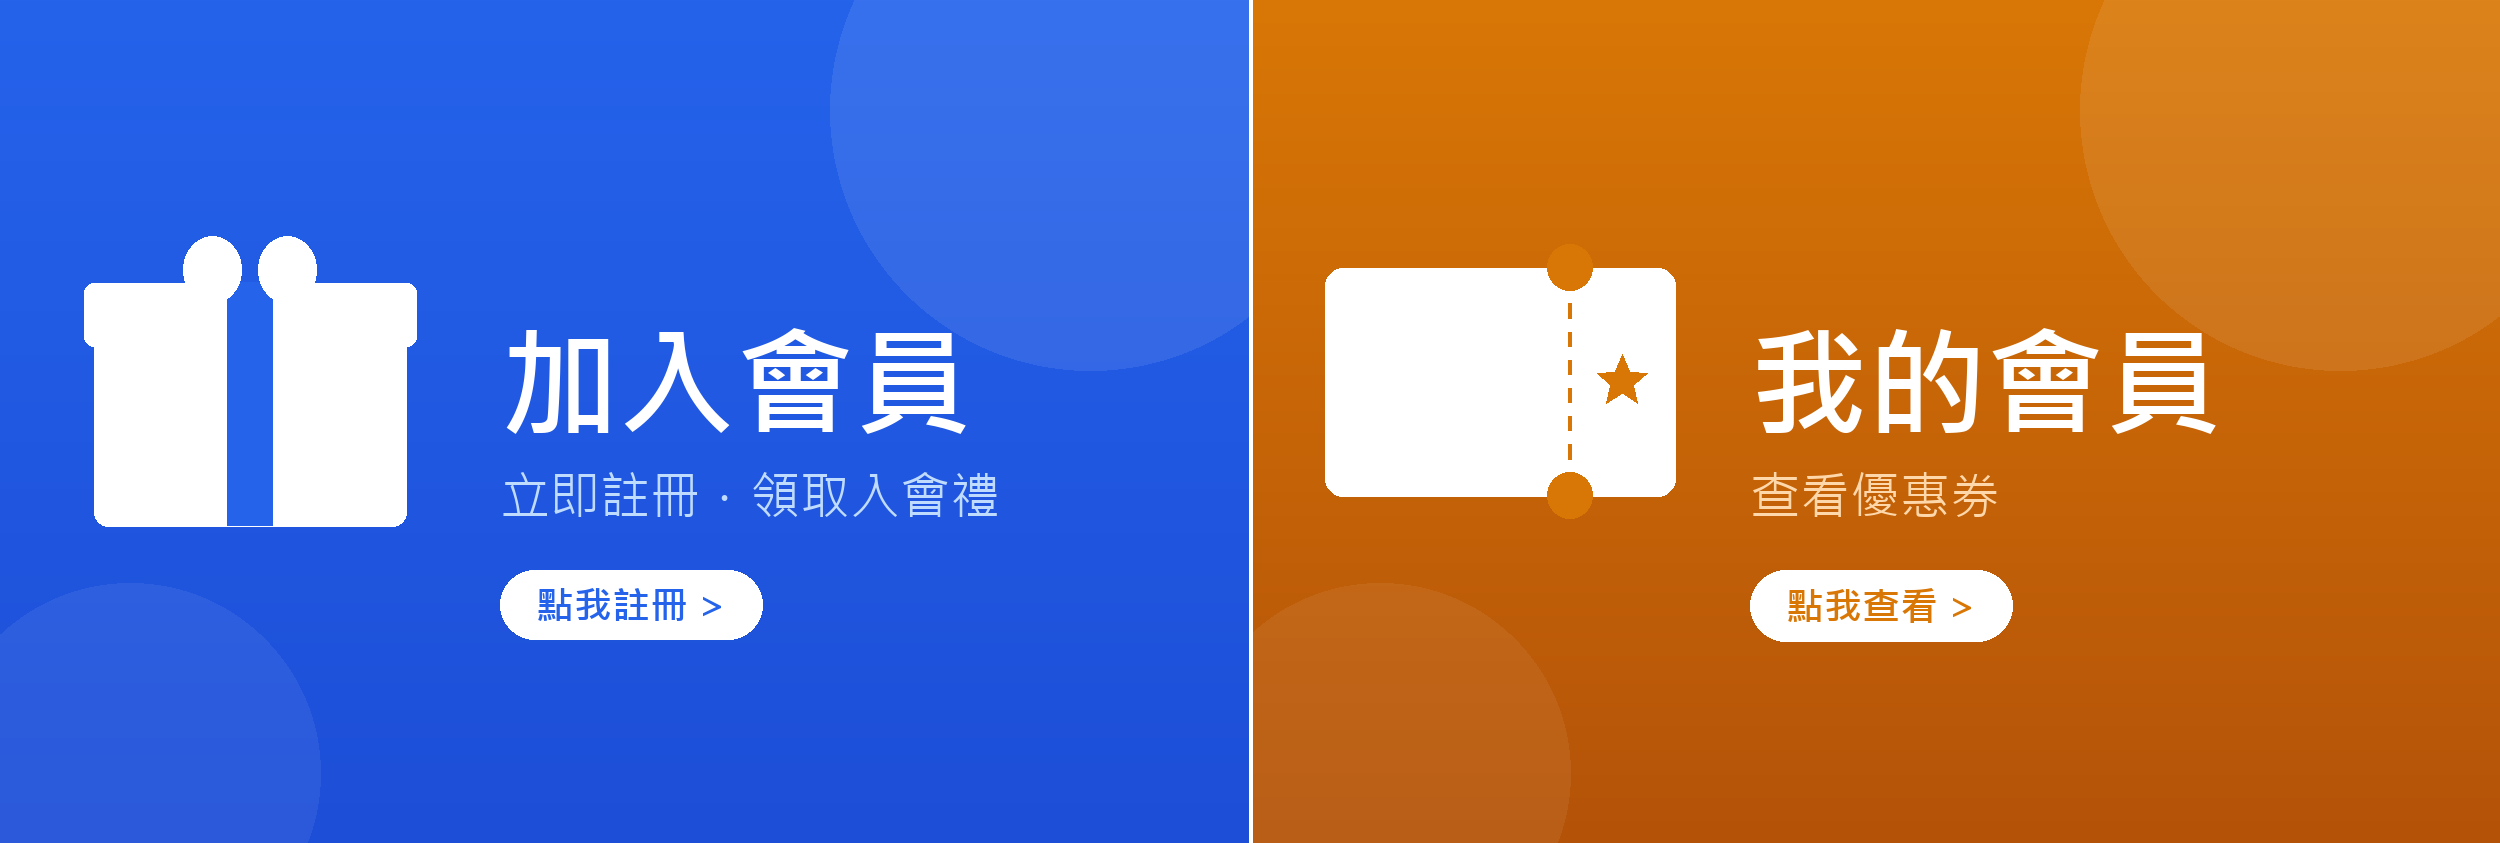
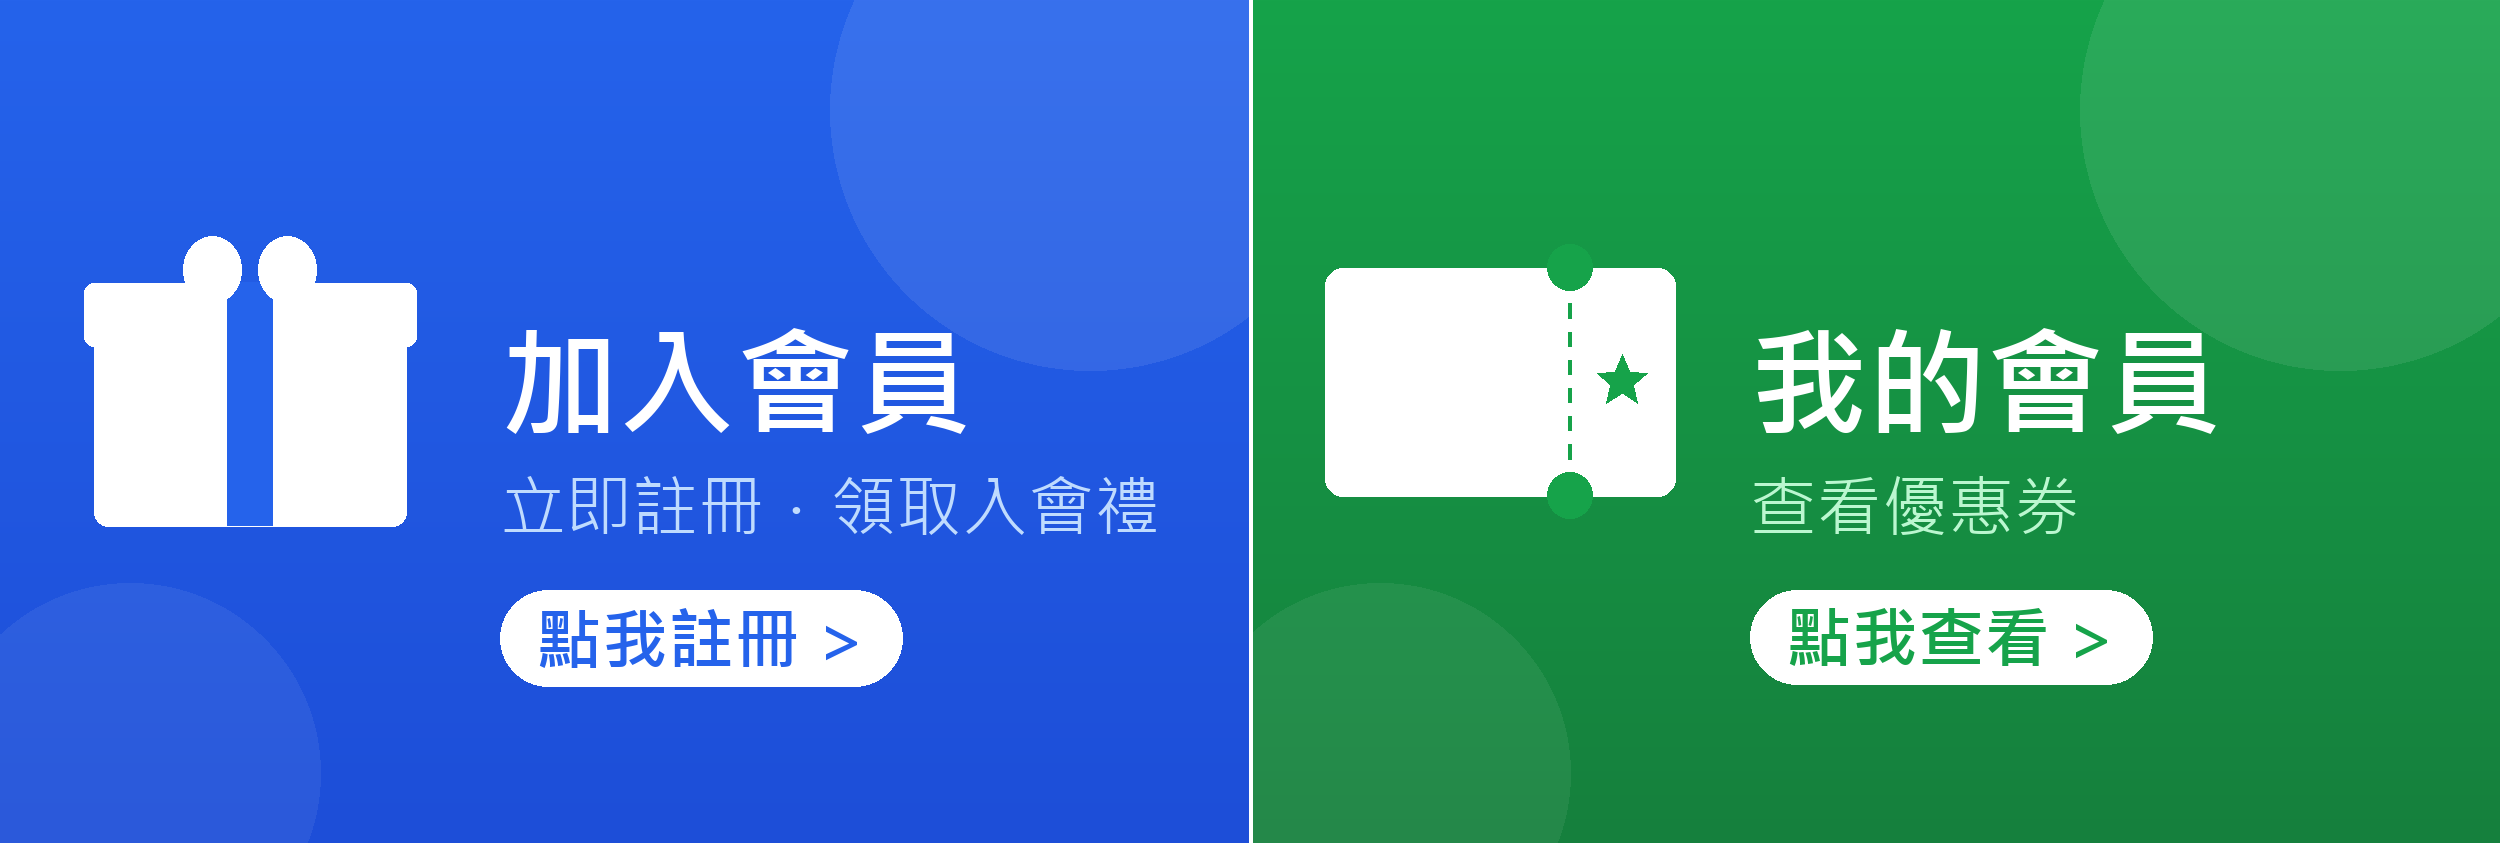
Line: 美化圖文選單樣式、VIP升級通知文案、註冊喜好選項修正成符合IKEA

diff --git a/templates/register.html b/templates/register.html
@@ -71,10 +71,10 @@
                     <div class="form-group">
                         <label>喜好項目 <span class="optional-text">可選填</span></label>
                         <div class="pref-options">
-                            <label class="pref-option"><input type="checkbox" name="preference" value="咖啡"> 咖啡</label>
-                            <label class="pref-option"><input type="checkbox" name="preference" value="甜點"> 甜點</label>
-                            <label class="pref-option"><input type="checkbox" name="preference" value="茶飲"> 茶飲</label>
-                            <label class="pref-option"><input type="checkbox" name="preference" value="輕食"> 輕食</label>
+                            <label class="pref-option"><input type="checkbox" name="preference" value="家具"> 家具</label>
+                            <label class="pref-option"><input type="checkbox" name="preference" value="收納"> 收納</label>
+                            <label class="pref-option"><input type="checkbox" name="preference" value="燈飾"> 燈飾</label>
+                            <label class="pref-option"><input type="checkbox" name="preference" value="餐廳"> 餐廳</label>
                         </div>
                     </div>
 

diff --git a/linebot_service/richmenu/generate_menu_image_two_entry.py b/linebot_service/richmenu/generate_menu_image_two_entry.py
@@ -22,9 +22,9 @@ LEFT_TOP_COLOR = (37, 99, 235)      # #2563eb
 LEFT_BOTTOM_COLOR = (29, 78, 216)   # #1d4ed8
 LEFT_LIGHT = (191, 219, 254)        # #bfdbfe
 
-RIGHT_TOP_COLOR = (217, 119, 6)     # #d97706
-RIGHT_BOTTOM_COLOR = (180, 83, 9)   # #b45309
-RIGHT_LIGHT = (254, 215, 170)       # #fed7aa
+RIGHT_TOP_COLOR = (22, 163, 74)      # #16a34a
+RIGHT_BOTTOM_COLOR = (21, 128, 61)   # #15803d
+RIGHT_LIGHT = (187, 247, 208)        # #bbf7d0
 
 FONT_BOLD = "C:/Windows/Fonts/msjhbd.ttc"
 FONT_REGULAR = "C:/Windows/Fonts/msjh.ttc"
@@ -156,15 +156,15 @@ def render_half(width, height, top_color, bottom_color, light_color,
     icon_fn(draw, 250, height / 2 - 230, 380)
 
     title_font = ImageFont.truetype(FONT_BOLD, 118)
-    subtitle_font = ImageFont.truetype(FONT_REGULAR, 50)
-    tag_font = ImageFont.truetype(FONT_BOLD, 38)
+    subtitle_font = ImageFont.truetype(FONT_REGULAR, 66)
+    tag_font = ImageFont.truetype(FONT_BOLD, 66)
 
     text_x = 500
 
     draw.text((text_x, 300), title, font=title_font, fill=WHITE)
     draw.text((text_x, 460), subtitle, font=subtitle_font, fill=light_color)
 
-    draw_tag(draw, text_x, 570, tag_text, tag_font, top_color)
+    draw_tag(draw, text_x, 590, tag_text, tag_font, top_color)
 
     return img.convert("RGB")
 

diff --git a/linebot_service/notify.py b/linebot_service/notify.py
@@ -128,7 +128,7 @@ def notify_vip_upgrade(member):
     if not line_user_id:
         return None
 
-    message = f"恭喜 {name}，您已成功升級為 VIP 會員！"
+    message = f"恭喜 {name}，您的累積消費金額超過 10,000 元，已成功升級為 VIP 會員！"
     return push_message(line_user_id, message)
 
 
